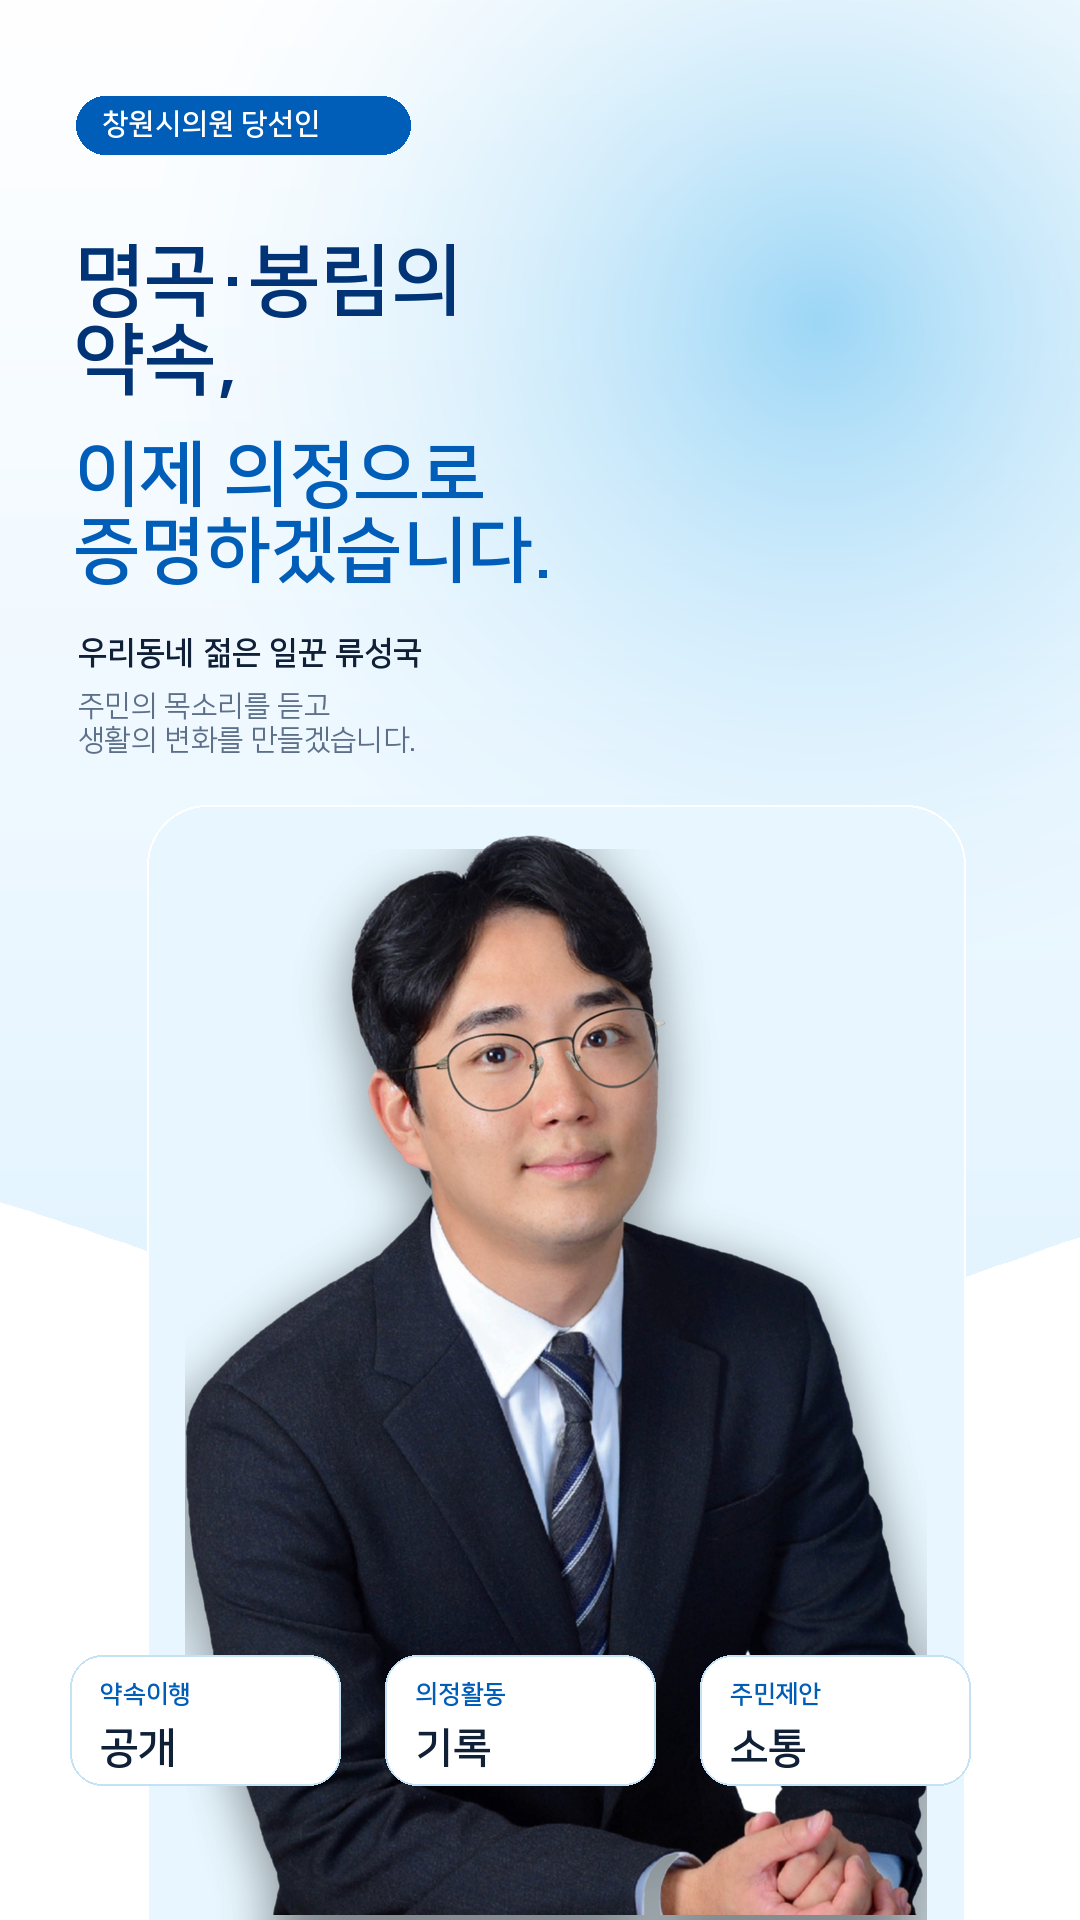
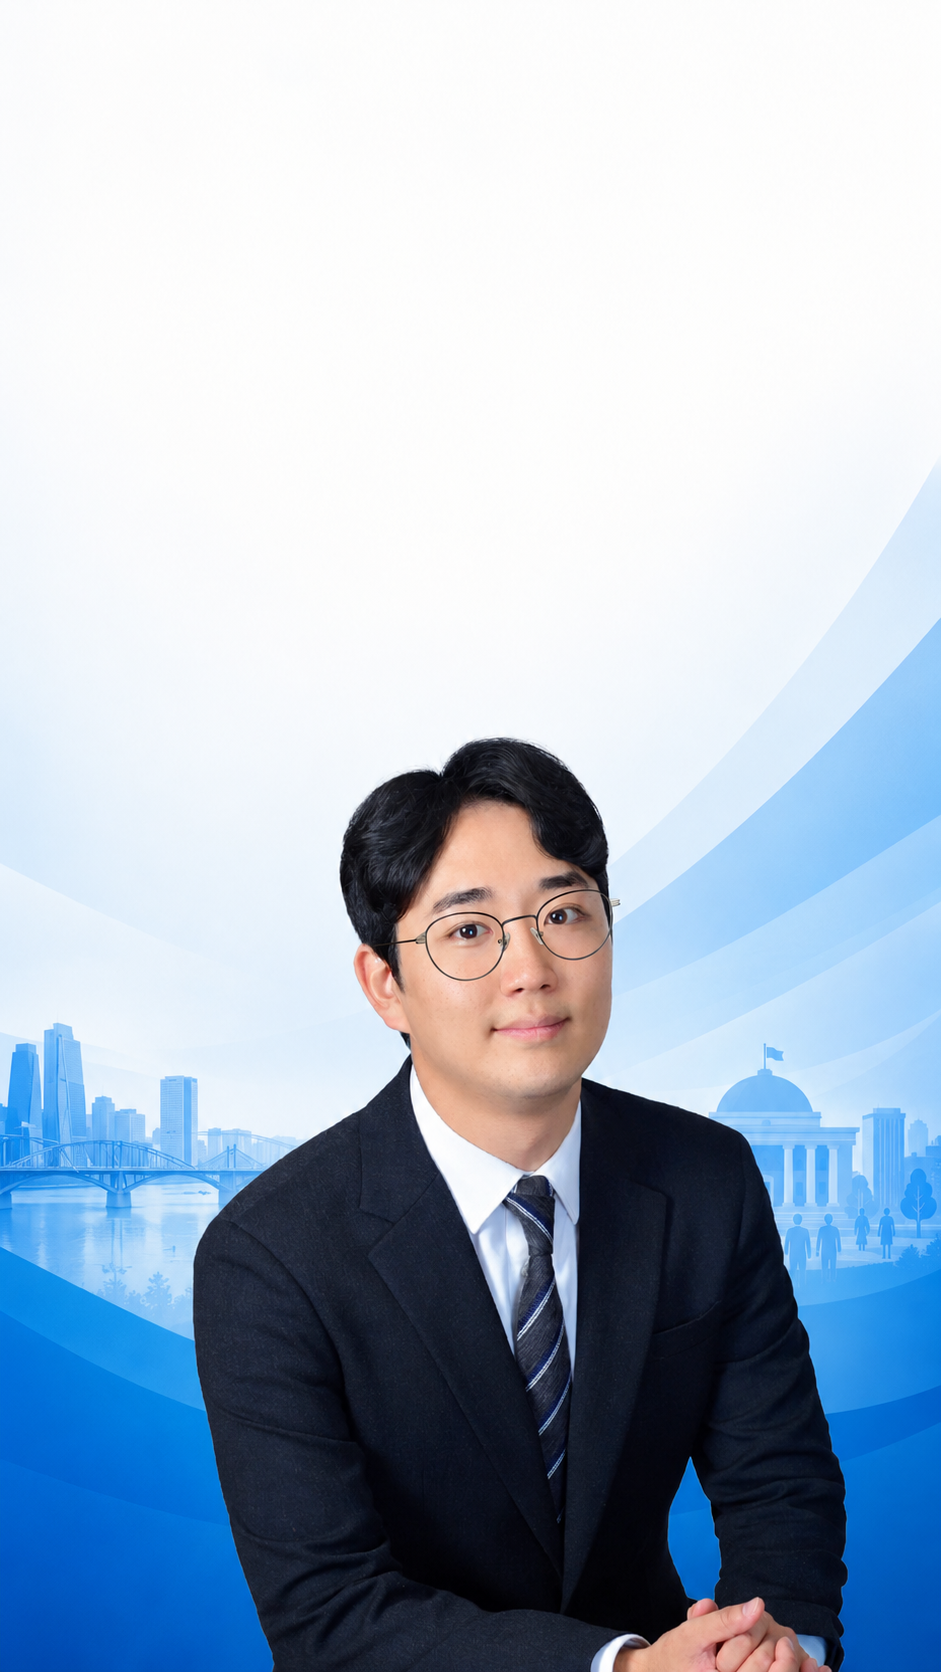
Replace homepage visual assets

diff --git a/components/Hero.tsx b/components/Hero.tsx
@@ -11,7 +11,7 @@ const quickStats = [
 
 export function Hero() {
   return (
-    <section id="top" className="relative -mt-[80px] overflow-hidden bg-dem-deep pt-[80px] text-white">
+    <section id="top" className="relative -mt-[80px] overflow-hidden bg-white pt-[80px] text-ink">
       <div className="relative min-h-[calc(100dvh-80px)] overflow-hidden md:min-h-[760px]">
         <Image
           src={assetPath("/images/hero-wide.png")}
@@ -19,7 +19,7 @@ export function Hero() {
           fill
           priority
           sizes="100vw"
-          className="hidden object-cover object-center md:block"
+          className="hidden object-cover object-[center_right] md:block"
         />
         <Image
           src={assetPath("/images/hero-mobile.png")}
@@ -27,41 +27,40 @@ export function Hero() {
           fill
           priority
           sizes="100vw"
-          className="object-cover object-top md:hidden"
+          className="object-cover object-[center_top] md:hidden"
         />
-        <div className="absolute inset-x-0 bottom-0 h-56 bg-gradient-to-t from-dem-deep via-dem-deep/[0.46] to-transparent md:h-56 md:from-white md:via-white/[0.58]" />
-        <div className="absolute inset-0 bg-[linear-gradient(90deg,rgba(0,52,118,0.18)_0%,rgba(255,255,255,0)_42%,rgba(255,255,255,0)_100%)]" />
+        <div className="absolute inset-0 bg-[linear-gradient(180deg,rgba(255,255,255,0.94)_0%,rgba(255,255,255,0.72)_34%,rgba(255,255,255,0.08)_58%,rgba(255,255,255,0)_100%)] md:bg-[linear-gradient(90deg,rgba(255,255,255,0.96)_0%,rgba(255,255,255,0.9)_28%,rgba(255,255,255,0.44)_48%,rgba(255,255,255,0)_68%)]" />
 
-        <div className="section-shell relative z-10 flex min-h-[calc(100dvh-80px)] flex-col justify-end pb-5 pt-8 md:min-h-[760px] md:pb-8">
-          <div className="sr-only">
-            <h1>
-              {site.currentStatus} {site.name} - {site.neighborhood}의 약속, 이제 의정으로 증명하겠습니다.
-            </h1>
-            <p>
-              {site.party} {site.district} {site.neighborhood}. {site.mainMessage}
-            </p>
-          </div>
-
-          <div className="civic-panel hidden max-w-[420px] p-5 text-ink backdrop-blur lg:absolute lg:bottom-8 lg:right-10 lg:block" data-reveal>
+        <div className="section-shell relative z-10 flex min-h-[calc(100dvh-80px)] flex-col justify-start pb-6 pt-10 md:min-h-[760px] md:justify-center md:pb-16 md:pt-16">
+          <div className="max-w-[620px]" data-reveal>
             <p className="civic-eyebrow">Changwon · Myunggok Bongnim</p>
-            <h2 className="mt-3 text-3xl font-black leading-snug">{site.mainMessage}</h2>
-            <p className="mt-3 text-sm font-bold leading-6 text-slate-600">{site.subMessage}</p>
-            <div className="mt-5 grid grid-cols-2 gap-2">
-              <a href="/policies/" className="civic-button-primary min-h-12 px-4 text-xs">
+            <h1 className="mt-4 text-4xl font-black leading-tight text-ink sm:text-5xl lg:text-6xl">
+              {site.mainMessage}
+            </h1>
+            <p className="mt-5 text-base font-black leading-7 text-dem-blue md:text-xl">
+              {site.district} {site.neighborhood}
+              <br />
+              {site.currentStatus} {site.name}
+            </p>
+            <p className="mt-5 max-w-[52ch] text-base font-semibold leading-8 text-slate-600 md:text-lg">
+              {site.subMessage}
+            </p>
+            <div className="mt-7 flex flex-wrap gap-3">
+              <a href="/policies/" className="civic-button-primary min-h-12 px-5 text-sm">
                 <span>약속 이행 보기</span>
-                <span className="ml-2 grid h-7 w-7 place-items-center rounded-full bg-white/[0.16]">→</span>
+                <span className="ml-2 grid h-8 w-8 place-items-center rounded-full bg-white/[0.16]">→</span>
               </a>
-              <a href="/contact/" className="civic-button-outline min-h-12 px-4 text-xs">
+              <a href="/contact/" className="civic-button-outline min-h-12 px-5 text-sm">
                 주민 제안하기
               </a>
             </div>
           </div>
 
-          <div className="grid grid-cols-3 gap-1.5 md:absolute md:bottom-8 md:left-10 md:right-10 md:gap-2 lg:right-[470px] xl:right-[500px]">
+          <div className="mt-8 grid max-w-[620px] grid-cols-3 gap-1.5 md:gap-2">
             {quickStats.map((stat, index) => (
               <div
                 key={stat.label}
-                className="civic-stat !p-2.5 text-center backdrop-blur-md md:!p-4 md:text-left"
+                className="rounded-lg border border-white/80 bg-white/[0.88] p-3 text-center shadow-civic-soft backdrop-blur-md md:p-4 md:text-left"
                 data-reveal
                 style={{ "--index": index } as CSSProperties & Record<"--index", number>}
               >

diff --git a/components/Activities.tsx b/components/Activities.tsx
@@ -18,7 +18,7 @@ export function Activities() {
           <div className="relative min-h-[280px] overflow-hidden rounded-lg border border-white/10 bg-white/10 shadow-civic" data-reveal style={{ "--index": 1 } as CSSProperties & Record<"--index", number>}>
             <Image
               src={assetPath("/images/activities-square.png")}
-              alt="류성국 의정활동과 주민 소통 이미지"
+              alt="류성국 의정활동과 주민소통 이미지"
               fill
               sizes="(min-width: 1024px) 32vw, 100vw"
               className="object-cover"

diff --git a/components/RecentActivities.tsx b/components/RecentActivities.tsx
@@ -24,7 +24,7 @@ export function RecentActivities() {
             <div className="relative min-h-[280px] overflow-hidden rounded-lg border border-white/10 bg-white/10">
               <Image
                 src={assetPath("/images/activities-square.png")}
-                alt="류성국 의정활동과 주민 소통 이미지"
+                alt="류성국 의정활동과 주민소통 이미지"
                 fill
                 sizes="(min-width: 768px) 32vw, 100vw"
                 className="object-cover"

diff --git a/app/layout.tsx b/app/layout.tsx
@@ -29,14 +29,14 @@ export const metadata: Metadata = {
         width: 1200,
         height: 630,
         type: "image/jpeg",
-        alt: `${site.domain} 카카오톡 공유 이미지`
+        alt: "류성국.kr 공유용 대표 이미지"
       },
       {
         url: `${siteUrl}/images/share-message.jpg`,
         width: 1080,
         height: 1080,
         type: "image/jpeg",
-        alt: `${site.domain} 공유 썸네일`
+        alt: "류성국 정사각형 공유 썸네일"
       }
     ]
   },
